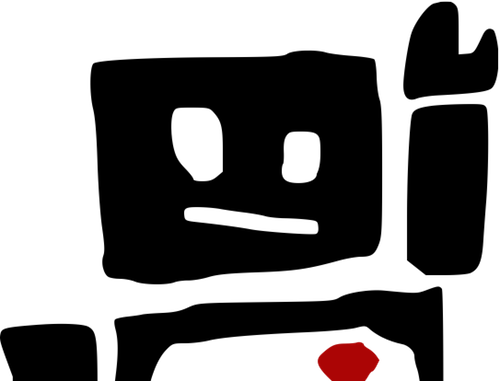
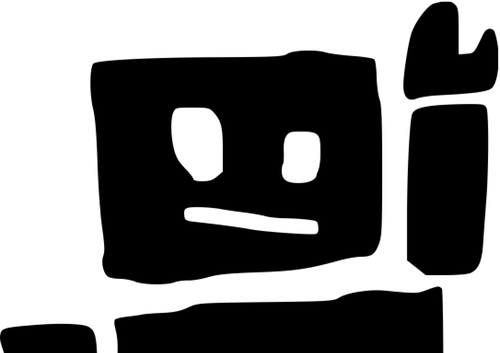
Add new robot

diff --git a/app/assets/stylesheets/landing.css.sass b/app/assets/stylesheets/landing.css.sass
@@ -18,13 +18,13 @@ body.landing
   #header
     padding-top: 50px
     text-align: left
-    border-bottom: 10px solid #7E3F23
+    border-bottom: 10px solid #14372A
     background-color: #215742
     #robot
       width: 500px
-      height: 381px
+      height: 345px
       display: inline-block
-      background-image: asset-url("robo-landing-scruff.png", image)
+      background-image: asset-url("robo-landing.png", image)
       margin-bottom: -3px
     #title
       color: #ddd
@@ -57,8 +57,8 @@ body.landing
 
       #sign-up
         padding: 1.5em
-        color: #eee
-        +background-image(linear-gradient(#B91613, #800F0E))
+        color: #fff
+        +background-image(linear-gradient(#2D74BA, #1E4C78))
         +border-radius(10px)
         text-align: center
         label
